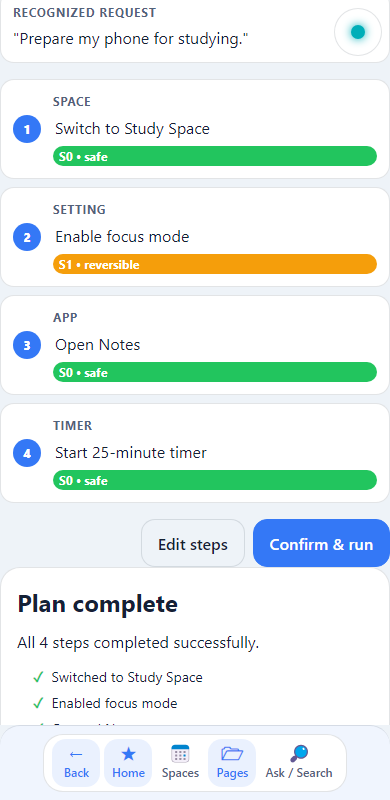
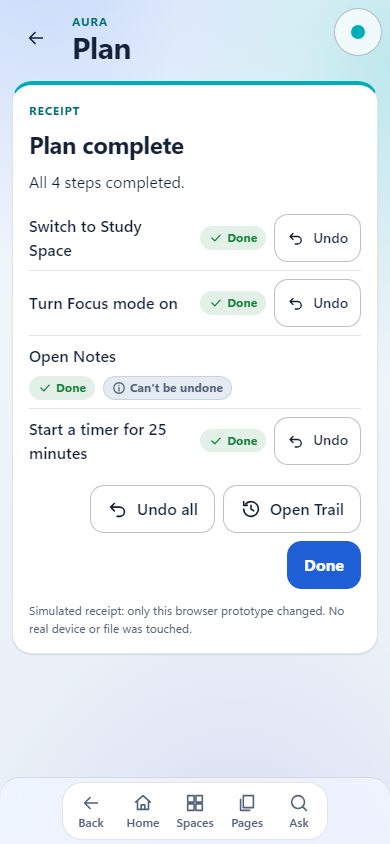
feat(ui): visual quality pass; curated screenshot set; desktop compositions (M1 S9)
Found by looking at rendered screens (not by assertions) and fixed:
- Quick Center and Settings were stretched phone layouts on desktop: Quick Center is now two columns
  from 1024 px and Settings is a bounded 760 px sheet.
- A legacy rule pinned the root font size to 16px on phones, so inherited text did not scale with
  the text-size setting while token-sized text did: at 200% a row title was smaller than its
  subtitle. Removed; row titles now use the type token. Regression test added.
- "Can't be undone" used a padlock (reads as blocked); now the neutral info glyph.

The 24 stale screenshots of the old design are replaced by 22 curated images generated by
tests/ui-golden/curated-shots.test.js (skipped unless AURORA_SHOTS=1; fixed clock). AURORA_UI_TASKS.md
records exactly which images were inspected and which were not.

Full suite: 325 passed, 22 skipped (curated shots), unit 5/5.

diff --git a/tests/ui-golden/curated-shots.test.js b/tests/ui-golden/curated-shots.test.js
@@ -1,0 +1,57 @@
+/**
+ * tests/ui-golden/curated-shots.test.js — regenerates the curated reference screenshots (aurora-glass/screenshots/, <= 24 PNGs).
+ * Skipped unless AURORA_SHOTS=1, so routine runs and CI never touch the tracked images:
+ *   AURORA_SHOTS=1 npx playwright test --workers=1 tests/ui-golden/curated-shots.test.js
+ * Names are <screen>-<width>-<theme>-<tier>[-<mode>].png. Look at the images after regenerating; do not just commit them.
+ */
+const { test } = require("@playwright/test");
+const { shotPath } = require("./shots");
+
+const BASE_URL = "http://localhost:3000";
+test.skip(process.env.AURORA_SHOTS !== "1", "set AURORA_SHOTS=1 to regenerate the curated screenshots");
+
+const ev = (page, fn, arg) => page.evaluate(fn, arg);
+const sleep = (ms) => new Promise((r) => setTimeout(r, ms));
+
+const ROUTES = {
+  home: (p) => ev(p, () => window.AuroraShell.showScreen("screen-home")),
+  spaces: (p) => ev(p, () => { window.AuroraShell.addSpace("Reading list"); window.AuroraShell.showScreen("screen-spaces"); }),
+  index: (p) => ev(p, () => window.AuroraShell.openIndex("start a 10 minute timer")),
+  pages: (p) => ev(p, () => window.AuroraShell.showScreen("screen-pages")),
+  quick: (p) => ev(p, () => { window.AuroraModels.qs.set("focus", true); window.AuroraShell.showScreen("screen-quick"); }),
+  settings: (p) => ev(p, () => window.AuroraShell.showScreen("screen-settings")),
+  "aura-review": (p) => ev(p, () => { window.AuroraReview.ask("prepare my phone for studying"); }),
+  "aura-confirm": async (p) => { await ev(p, () => { window.AuroraReview.ask("prepare my phone for studying"); }); await p.locator("#btn-plan-confirm").click(); },
+  "aura-receipt": async (p) => { await ev(p, () => { window.AuroraReview.ask("prepare my phone for studying"); }); await p.locator("#btn-plan-confirm").click(); await p.locator("#btn-plan-run").click(); await p.locator("#plan-receipt").waitFor({ timeout: 8000 }); },
+  "delete-confirm": (p) => ev(p, () => { window.AuroraSystem.request({ type: "file.delete", arguments: { id: "timetable" } }, { source: "shots" }); }),
+  "glass-corner": async (p) => { await ev(p, () => { window.AuroraSystem.dev.stepDelayMs = 0; window.AuroraSystem.request({ type: "timer.start", arguments: { seconds: 600 } }, { source: "shots" }); window.AuroraSystem.permissions.set("files.edit", "allow"); }); await sleep(150); await p.locator("#glass-corner").click(); },
+};
+
+// [route, width, height, theme, tier, mode]
+const SHOTS = [
+  ["home", 390, 844, "light", "soft"], ["spaces", 390, 844, "light", "soft"], ["index", 390, 844, "light", "soft"], ["pages", 390, 844, "light", "soft"],
+  ["quick", 390, 844, "light", "soft"], ["settings", 390, 844, "light", "soft"], ["aura-review", 390, 844, "light", "soft"], ["aura-confirm", 390, 844, "light", "soft"],
+  ["aura-receipt", 390, 844, "light", "soft"], ["delete-confirm", 390, 844, "dark", "soft"], ["glass-corner", 390, 844, "light", "soft"],
+  ["home", 390, 844, "dark", "soft"], ["quick", 390, 844, "dark", "soft"], ["home", 390, 844, "dark", "clear"],
+  ["home", 768, 1024, "light", "soft"],
+  ["home", 1280, 800, "light", "soft"], ["quick", 1280, 800, "light", "soft"], ["pages", 1280, 800, "light", "soft"], ["home", 1280, 800, "dark", "soft"], ["spaces", 1280, 800, "dark", "soft"],
+  ["home", 360, 740, "light", "soft", "text200"], ["home", 390, 844, "light", "clear", "highcontrast"],
+];
+
+for (const [route, w, h, theme, tier, mode] of SHOTS) {
+  const name = `${route}-${w}-${theme}-${tier}${mode ? "-" + mode : ""}.png`;
+  test(name, async ({ page }, testInfo) => {
+    await page.setViewportSize({ width: w, height: h });
+    await page.clock.setFixedTime(new Date("2026-11-12T09:41:00"));   // reproducible clock; timers still run
+    await page.goto(BASE_URL);
+    await ev(page, ([t, ti, m]) => {
+      window.AuroraSystem.dev.stepDelayMs = 20;
+      window.AuroraShell.setAppearance(t); window.AuroraShell.setTier(ti);
+      if (m === "text200") window.AuroraSettingsModel.set("accessibility.textSize", "200");
+      if (m === "highcontrast") window.AuroraSettingsModel.set("accessibility.highContrast", true);
+    }, [theme, tier, mode]);
+    await ROUTES[route](page);
+    await sleep(300);
+    await page.screenshot({ path: shotPath(testInfo, name) });
+  });
+}

diff --git a/aurora-glass/prototype/review.js b/aurora-glass/prototype/review.js
@@ -202,7 +202,7 @@
       const undoState = r ? r.undoState : "unavailable";
       const undoBtn = undoState === "available" ? el("button", { type: "button", class: "btn outline btn-small", "data-fk": "undo:" + s.receiptId, "aria-label": "Undo: " + System.describe(p.steps[s.index]).title,
         onclick: async () => { const u = await System.undo(s.receiptId); UI.toast(u.ok ? "Undone: " + System.describe(p.steps[s.index]).title : u.text, { tone: u.ok ? "ok" : "error" }); render(); } }, [icon("undo"), el("span", { text: "Undo" })])
-        : undoState === "used" ? UI.chip("Undone", "muted", "undo") : undoState === "failed" ? UI.chip("Undo failed", "error", "alert") : s.status === "done" ? UI.chip("Can't be undone", "muted", "lock") : null;
+        : undoState === "used" ? UI.chip("Undone", "muted", "undo") : undoState === "failed" ? UI.chip("Undo failed", "error", "alert") : s.status === "done" ? UI.chip("Can't be undone", "muted", "info") : null;
       list.appendChild(el("li", { class: "result-row", dataset: { status: s.status } }, [
         el("span", { class: "result-title" }, [el("span", { text: System.describe(p.steps[s.index]).title }), s.error ? el("span", { class: "result-error", text: System.explain(s.error) }) : null]),
         el("span", { class: "result-side" }, [statusChip(s.status), undoBtn]),

diff --git a/aurora-glass/prototype/shell.css b/aurora-glass/prototype/shell.css
@@ -8,7 +8,6 @@
 
 /* ---------- Shell layout ---------- */
 body { display: flex; flex-direction: column; }
-@media (max-width: 412px) { html { font-size: 16px; } }
 
 .shell { display: flex; flex-direction: column; height: 100vh; max-width: 100vw; overflow: hidden; }
 .content { flex: 1; overflow-y: auto; display: flex; flex-direction: column; gap: var(--space-4); padding: var(--space-4) var(--space-4) var(--space-5); }
@@ -233,6 +232,13 @@ body::after { content: ""; position: fixed; inset: 0; pointer-events: none; z-in
 .privacy-item.active { border-color: var(--color-warn); font-weight: var(--weight-bold); background: var(--color-warn-soft); }
 .privacy-item.active .icon { color: var(--color-warn); }
 .plan-actions { display: flex; flex-wrap: wrap; gap: var(--space-2); }
+
+/* ---------- Form-like screens must not look like stretched phones (found in the S9 desktop review) ---------- */
+#screen-settings { max-width: 760px; }
+@media (min-width: 1024px) {
+  #screen-quick.active { display: grid; grid-template-columns: repeat(2, minmax(0, 1fr)); align-items: start; gap: var(--space-4); }
+  #screen-quick > .screen-header, #screen-quick > .screen-intro { grid-column: 1 / -1; }
+}
 
 /* ---------- Settings ---------- */
 .settings-group { margin-bottom: var(--space-4); }

diff --git a/tests/ui-golden/home-dock.test.js b/tests/ui-golden/home-dock.test.js
@@ -419,3 +419,20 @@ test.describe("Home: reduced motion and keyboard", () => {
     expect(seen.some((s) => /^Open Notes/.test(s))).toBe(true);
   });
 });
+
+test.describe("Text scaling keeps the type hierarchy", () => {
+  test("at 200% text on a phone the root size scales and a row title is never smaller than its subtitle", async ({ page }) => {
+    await page.setViewportSize({ width: 360, height: 740 });
+    await page.goto(BASE_URL);
+    const base = await ev(page, () => parseFloat(getComputedStyle(document.documentElement).fontSize));
+    await ev(page, () => document.documentElement.setAttribute("data-text-scale", "200"));
+    const r = await ev(page, () => ({
+      root: parseFloat(getComputedStyle(document.documentElement).fontSize),
+      title: parseFloat(getComputedStyle(document.querySelector("#home-continue-list .row-title")).fontSize),
+      meta: parseFloat(getComputedStyle(document.querySelector("#home-continue-list .row-meta")).fontSize),
+    }));
+    expect(base).toBe(16);
+    expect(r.root).toBe(32);
+    expect(r.title).toBeGreaterThanOrEqual(r.meta);
+  });
+});

diff --git a/aurora-glass/prototype/components.css b/aurora-glass/prototype/components.css
@@ -158,7 +158,7 @@ button.list-row:hover, a.list-row:hover, .list-row.is-interactive:hover { backgr
 button.list-row:focus-visible { outline-offset: -3px; }
 .list-row.is-selected, .list-row[aria-selected="true"] { background: var(--color-accent-soft); box-shadow: inset 3px 0 0 var(--color-accent); }
 .row-main { flex: 1 1 14ch; min-width: 0; display: flex; flex-direction: column; gap: 2px; }
-.row-title { font-weight: var(--weight-medium); overflow-wrap: anywhere; }
+.row-title { font-size: var(--text-base); font-weight: var(--weight-medium); overflow-wrap: anywhere; }
 .row-meta { font-size: var(--text-sm); color: var(--color-ink-muted); overflow-wrap: anywhere; }
 .row-trailing { display: flex; align-items: center; gap: var(--space-2); flex-wrap: wrap; margin-left: auto; color: var(--color-ink-muted); }
 

diff --git a/docs/agents/AURORA_UI_TASKS.md b/docs/agents/AURORA_UI_TASKS.md
@@ -264,7 +264,7 @@ the reset confirmation in Settings is still the inline panel until S6.
   directory by default (`git status` clean after a run).
 - Depends on: S1–S7.
 
-### S9. Visual quality loop — `not started`
+### S9. Visual quality loop — `done` (see "S9 record" below)
 
 - Screenshot pass for all seven screens plus the review dialog and the receipt. Checklist per image:
   alignment to a common left edge; consistent card padding; one primary button per view; heading sizes step
@@ -274,6 +274,16 @@ the reset confirmation in Settings is still the inline panel until S6.
 - Record in the PR body which combinations were looked at and each defect fixed.
 - Regenerate the curated set in `aurora-glass/screenshots/` (<= 24 PNGs) and `git rm` the stale ones.
 - Depends on: S8.
+
+**S9 record (what was actually looked at, 2026-11-12).** Images opened and inspected: Home at 390 light and dark, 360 at 200% text (before and after the fix),
+768, 1280 light, 1440 dark Clear, 390 high contrast with the Focus chip; Spaces 390 light and 1280 dark, New Space dialog with an inline error at 390;
+Index 390 (empty and with an Aura row) and 1280 dark; Pages 390 and 1280; Quick Center 390 dark and 1280 (before and after); Settings 390 light and
+1280 dark (before and after); Aura review 390 dark, confirmation dialog 390, receipt 390; S3 delete dialog 390 dark Clear; Glass Corner popover 390 and
+1280 dark. Defects found and fixed: all app tiles shared one hue; clock wrapped at 390; Quick Center and Settings were stretched phone layouts on desktop
+(now two columns / a bounded sheet); root font size pinned to 16px on phones so inherited text did not scale (row title was smaller than its subtitle at 200%);
+a padlock on "Can't be undone". NOT inspected by eye (covered by the layout matrix assertions only): 412 and 1024 widths, 1440 for non-Home screens,
+Settings/Pages/Quick Center in Clear + high contrast, most of the final curated PNGs, reduced-motion appearance. The 22 curated PNGs in
+`aurora-glass/screenshots/` replace the 24 stale images of the old design; regenerate with `AURORA_SHOTS=1` (curated-shots.test.js).
 
 ### S10. Deliver M1 — `not started`
 

diff --git a/docs/agents/AURORA_UI_HANDOFF.md b/docs/agents/AURORA_UI_HANDOFF.md
@@ -22,7 +22,8 @@ background, not current status.
 | M1 S6 Pages/Quick/Settings | done (238/238 Playwright locally) |
 | M1 S7 Glass Corner + Horizon | done (268/268 Playwright locally) |
 | M1 S8 Tests | done (324/324 Playwright, 5/5 unit locally; run leaves git status clean) |
-| M1 S9 to S10 | not done (see `AURORA_UI_TASKS.md`; each step carries its own status) |
+| M1 S9 Visual quality loop | done (see the S9 record in AURORA_UI_TASKS.md for exactly what was inspected) |
+| M1 S10 deliver | not done (see `AURORA_UI_TASKS.md`; each step carries its own status) |
 | M2 to M8 | not started |
 
 Verification honesty: only one screenshot (Aura Plan review at 390 px) has been inspected for the new design. The full
@@ -41,7 +42,7 @@ untracked PNGs this run created.
 
 ## Exact next task
 
-`AURORA_UI_TASKS.md` → **M1 / S9 "Visual quality loop"** (inspect screenshots, regenerate the curated set with AURORA_SHOTS=1), then S10 (S1 to S8 are done).
+`AURORA_UI_TASKS.md` → **M1 / S10 "Deliver M1"**: review the whole diff (an independent reviewer if one is available), update the PR #30 body, verify all six CI jobs on the final head. Then M2 Passport on `feature/aurora-passport` (S1 to S9 are done).
 
 ```bash
 cd C:/Users/satvi/Desktop/AuroraOS-Claude

diff --git a/docs/agents/AURORA_DESIGN_SYSTEM.md b/docs/agents/AURORA_DESIGN_SYSTEM.md
@@ -107,5 +107,5 @@ Strings are plain text in JS today; keep them out of layout decisions so they ca
 
 ## 7. Reference screenshots
 
-`aurora-glass/screenshots/` holds a small curated set (regenerate with `AURORA_SHOTS=1 npx playwright test
---workers=1`). Routine test runs write screenshots to `test-results/`, which is ignored.
+`aurora-glass/screenshots/` holds a small curated set of 22 images (regenerate with `AURORA_SHOTS=1 npx playwright test
+--workers=1 tests/ui-golden/curated-shots.test.js`; the spec is skipped otherwise). Routine test runs write screenshots to `test-results/`, which is ignored.
